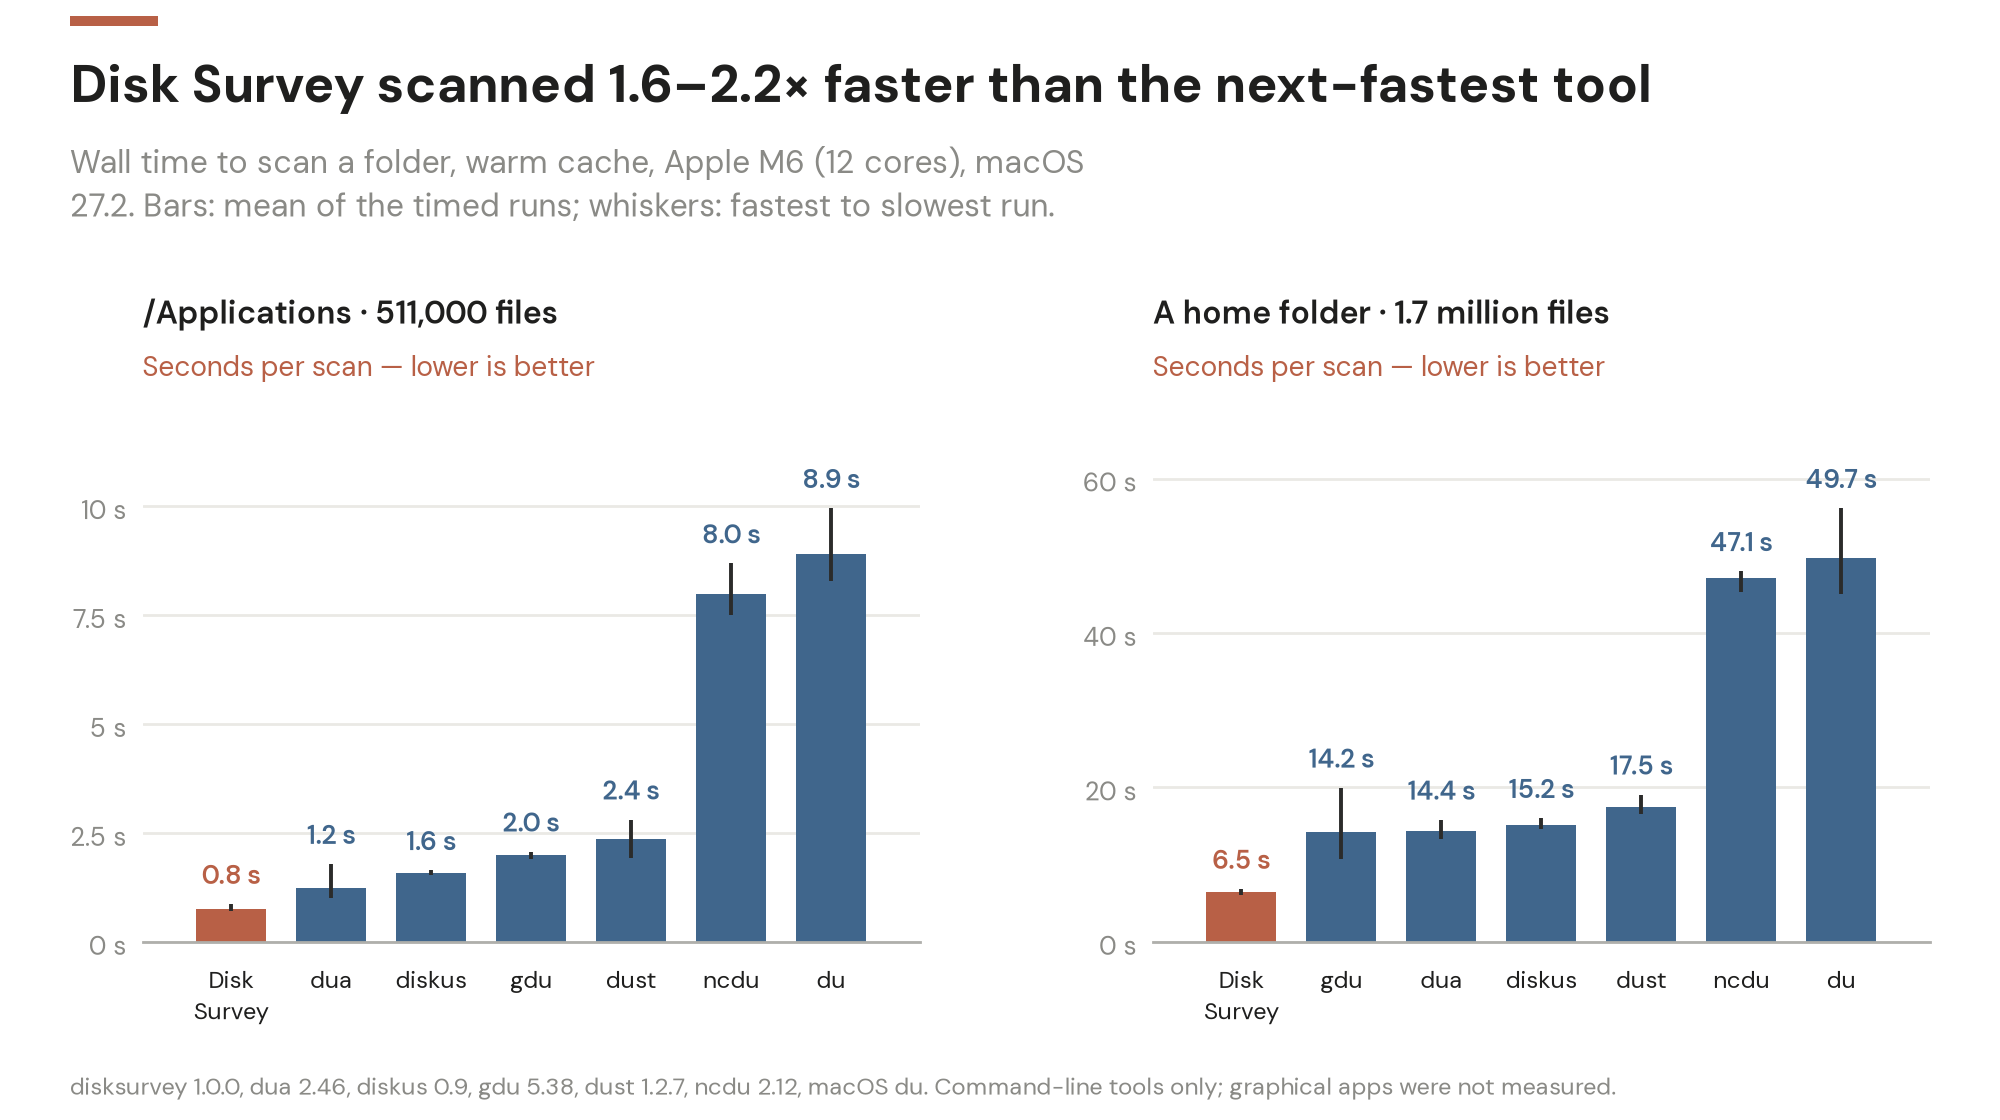
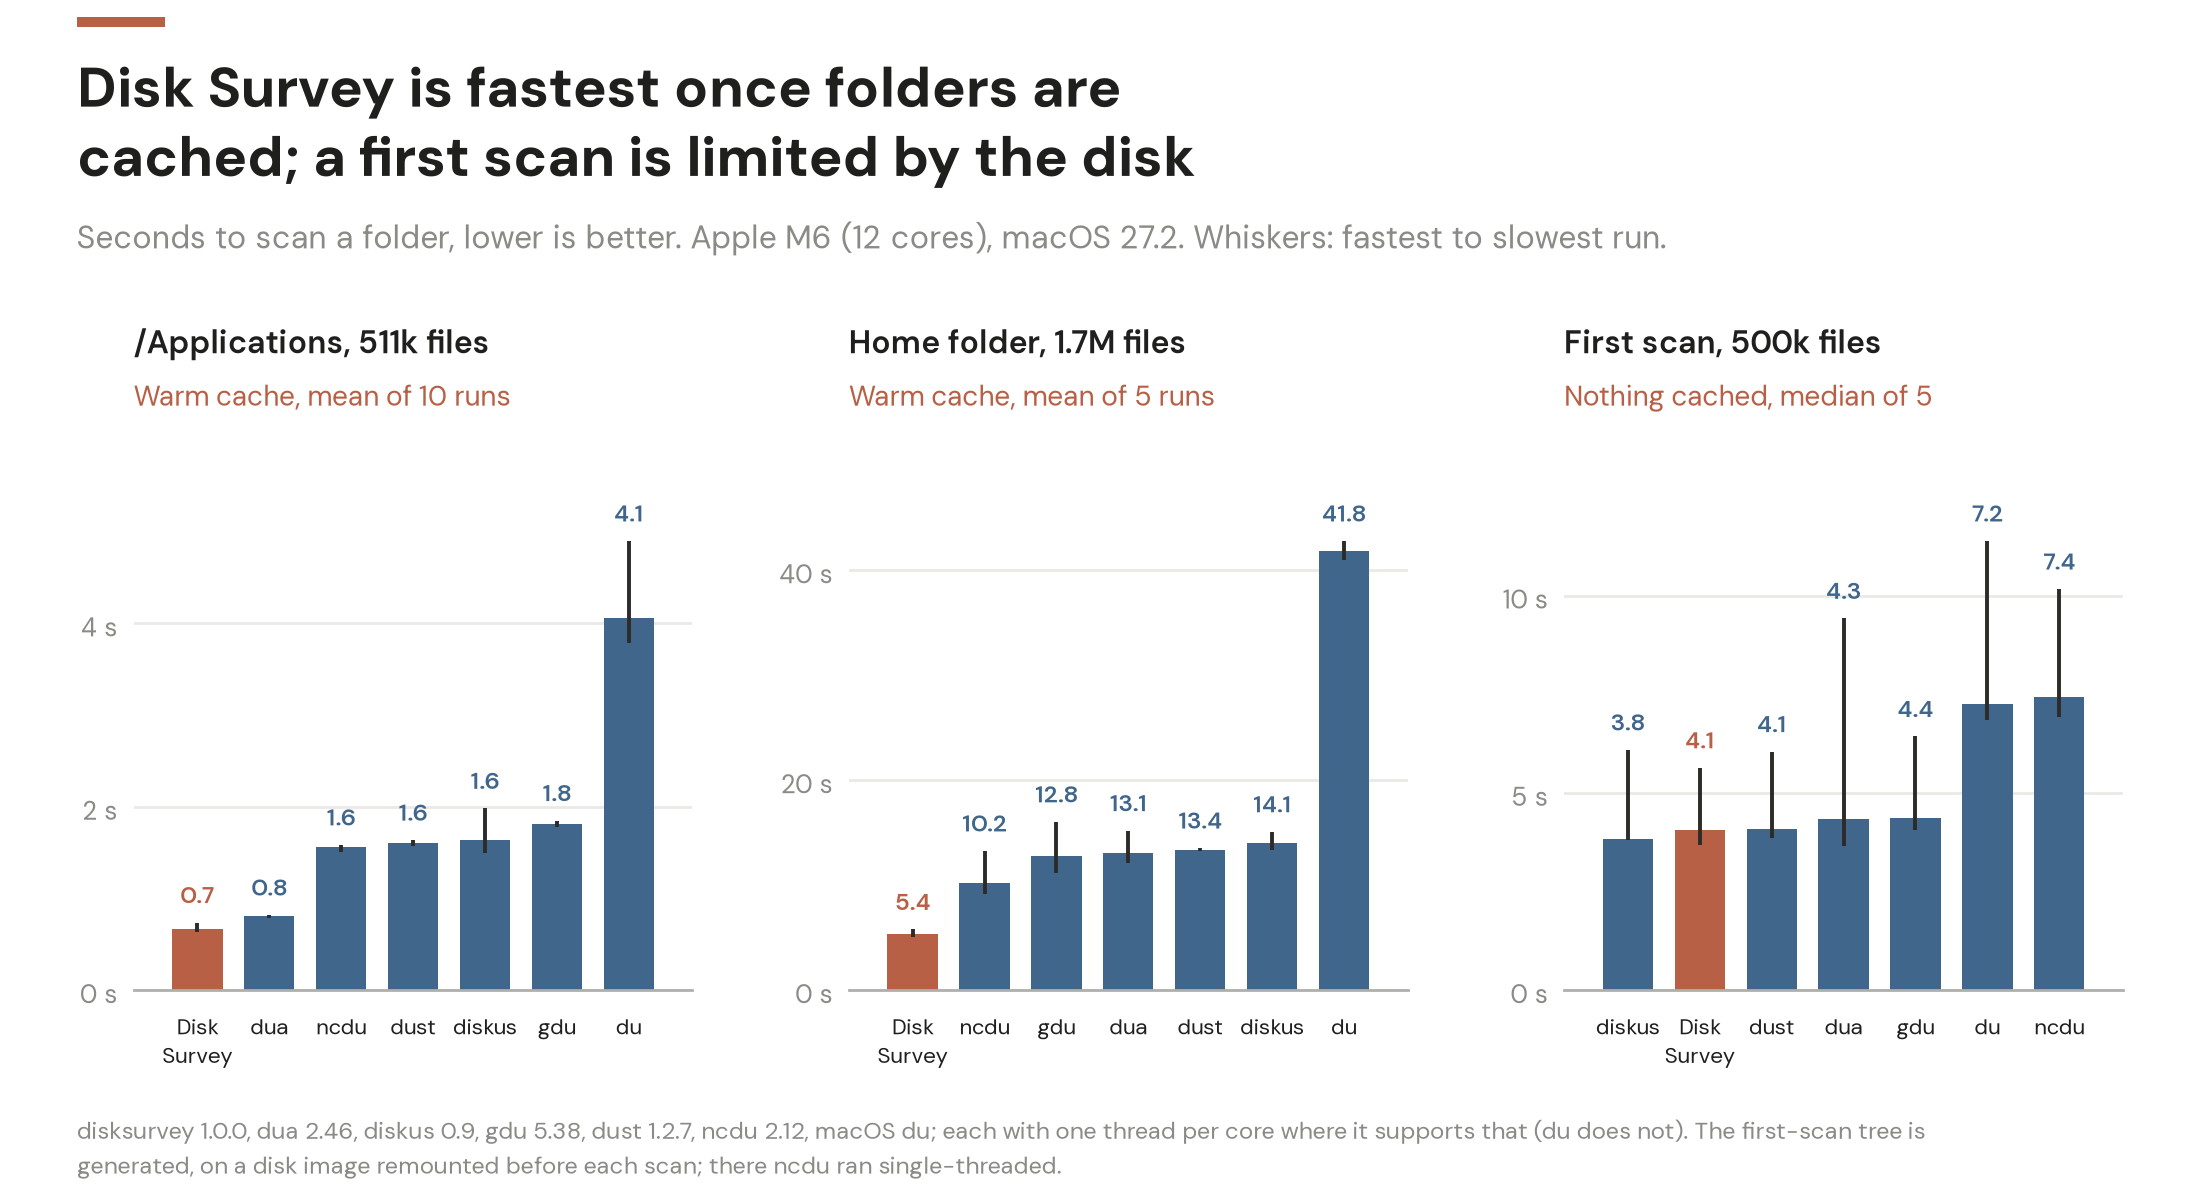
Benchmark: run every tool at its best, add first-scan numbers, redraw chart
The first comparison ran ncdu single-threaded and diskus with its slower
default thread count, and showed only warm-cache scans. benchmark.sh now
gives each tool one thread per core where it supports that. The chart and
DEVELOPMENT.md carry the re-measured numbers plus a cold-cache comparison
on a remounted disk image, where the parallel tools are level.

Generated with AI
Claude-Session: https://claude.ai/code/session_01N1Grg5FTNwXKWS22zttwwF

diff --git a/DEVELOPMENT.md b/DEVELOPMENT.md
@@ -148,31 +148,51 @@ warm-up run, then the timed runs), and then records each tool's peak resident me
 nix-shell -p hyperfine ncdu gdu dust dua diskus --run 'Scripts/benchmark.sh home ~ 5'
 ```
 
-Results of 10 November 2026, mean of the timed runs (fastest–slowest) and peak resident memory:
+Each tool runs in its fastest sensible mode, with one thread per core where it supports that
+(`ncdu -t`, `diskus -j`; `du` is single-threaded). Results of 10 November 2026 with a warm
+file-system cache, mean of the timed runs (fastest–slowest) and peak resident memory:
 
-| Tool            | `/Applications`, 511,000 files, 7 runs | Home folder, 1.7 M files, 5 runs | Peak memory, home folder |
-|-----------------|-----------------------|-------------------------|--------|
-| disksurvey 1.0.0 | 0.76 s (0.71–0.87)   | 6.5 s (6.1–6.9)         | 217 MB |
-| gdu 5.38        | 1.99 s (1.91–2.07)    | 14.2 s (10.8–20.0)      | 81 MB  |
-| dua 2.46        | 1.24 s (1.02–1.79)    | 14.4 s (13.3–15.8)      | 42 MB  |
-| diskus 0.9      | 1.59 s (1.54–1.65)    | 15.2 s (14.6–16.0)      | 69 MB  |
-| dust 1.2.7      | 2.37 s (1.93–2.81)    | 17.5 s (16.6–19.1)      | 934 MB |
-| ncdu 2.12       | 7.99 s (7.51–8.69)    | 47.1 s (45.3–48.0)      | 3 MB   |
-| du (macOS)      | 8.91 s (8.28–9.96)    | 49.7 s (45.1–56.2)      | 28 MB  |
+| Tool             | `/Applications`, 511,000 files, 10 runs | Home folder, 1.7 M files, 5 runs | Peak memory, home folder |
+|------------------|----------------------|-------------------------|--------|
+| disksurvey 1.0.0 | 0.67 s (0.64–0.74)   | 5.4 s (5.1–5.8)         | 218 MB |
+| dua 2.46         | 0.80 s (0.79–0.82)   | 13.1 s (12.1–15.2)      | 41 MB  |
+| ncdu 2.12        | 1.56 s (1.51–1.59)   | 10.2 s (9.2–13.3)       | 131 MB |
+| dust 1.2.7       | 1.61 s (1.58–1.64)   | 13.4 s (13.3–13.6)      | 935 MB |
+| diskus 0.9       | 1.63 s (1.49–1.98)   | 14.1 s (13.3–15.1)      | 55 MB  |
+| gdu 5.38         | 1.81 s (1.78–1.85)   | 12.8 s (11.1–16.1)      | 80 MB  |
+| du (macOS)       | 4.06 s (3.79–4.90)   | 41.8 s (41.0–42.8)      | 28 MB  |
+
+With nothing cached the picture is different. A generated tree of 500,000 files in 50,000
+folders on a disk image, unmounted and mounted again before every scan (which made each scan
+read the same 176 MB from disk), five rounds with the tool order changed each time:
+
+| Tool        | First scan, median (fastest–slowest) | Same tree, cached |
+|-------------|--------------------|--------|
+| diskus      | 3.8 s (3.8–6.1)    | 1.12 s |
+| disksurvey  | 4.1 s (3.7–5.6)    | 0.73 s |
+| dust        | 4.1 s (3.9–6.0)    | 1.44 s |
+| dua         | 4.3 s (3.7–9.4)    | 0.73 s |
+| gdu         | 4.4 s (4.1–6.4)    | 1.52 s |
+| du          | 7.2 s (6.8–11.4)   | 3.59 s |
+| ncdu        | 7.4 s (6.9–10.2)   | 3.68 s |
+
+(In this second table ncdu ran single-threaded and diskus with its default thread count.)
 
 What the comparison does and does not show:
 
-- Every tool ran from the same terminal with the same permissions, each asked for its
-  cheapest output: a total, or for ncdu an export to `/dev/null`.
-- The tools do different amounts of work. `disksurvey` keeps every item's name, sizes and
-  date in memory, because a treemap needs them; `diskus`, `dua` and `du` only add sizes up, and
-  ncdu's export writes entries out as it goes. That is why Disk Survey uses more memory than
-  all of them except dust.
-- Scan times vary with what else the machine is doing. Three further `disksurvey` runs on
-  the home folder right after the benchmark took 9–10 s, not 6.5 s.
+- Disk Survey has no cache of its own; every run walks the folder again. Its entry counts
+  match `find` and its sizes match `du -sk` on the folders checked, so it does the same work.
+- Cached, it was the fastest tool on both real folders: about 1.2× ahead of dua on
+  `/Applications`, about 1.9× ahead of ncdu on the home folder, 6–8× ahead of `du`. On the
+  generated tree it tied with dua.
+- On a first scan the disk sets the pace. Disk Survey is level with the other parallel tools
+  there and about 1.8× faster than `du`.
+- It uses more memory than every tool but dust, because it keeps every item's name, sizes
+  and date for the map, while most of the others only add sizes up.
+- Scan times vary with what else the machine is doing; an earlier run of the same benchmark
+  on a busier machine gave 6.5 s for the home folder and 8.9 s for `du` on `/Applications`.
 - Only command-line tools are in it. Graphical apps such as Disk Inventory X, GrandPerspective
   or DaisyDisk cannot be timed without someone operating them, and were not measured.
-- The file-system cache was warm. A first scan after a restart is slower for every tool.
 
 The chart in the README is drawn from these numbers.
 

diff --git a/README.md b/README.md
@@ -144,7 +144,7 @@ $ disksurvey export ~ -f ncdu -o home.json        # readable by ncdu -f home.jso
 
 ## Performance
 
-<img src="docs/images/scan-time.png" width="880" alt="Disk Survey scanned 1.6–2.2× faster than the next-fastest tool: 0.8 s for /Applications and 6.5 s for a home folder, against 1.2–8.9 s and 14.2–49.7 s for dua, diskus, gdu, dust, ncdu and du">
+<img src="docs/images/scan-time.png" width="880" alt="Disk Survey is fastest once folders are cached (0.7 s against 0.8–4.1 s for /Applications, 5.4 s against 10.2–41.8 s for a home folder); on a first scan with nothing cached it ties with the other parallel tools at about 4 s">
 
 Measured on an Apple M6 (12 cores), macOS 27.2.
 
